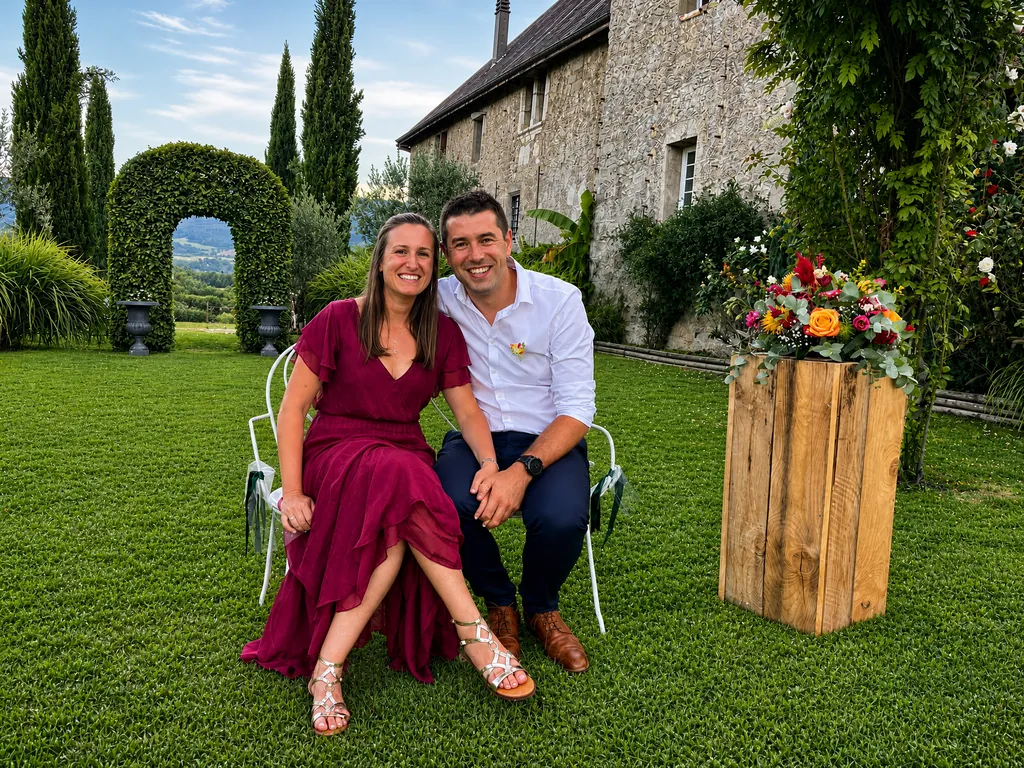
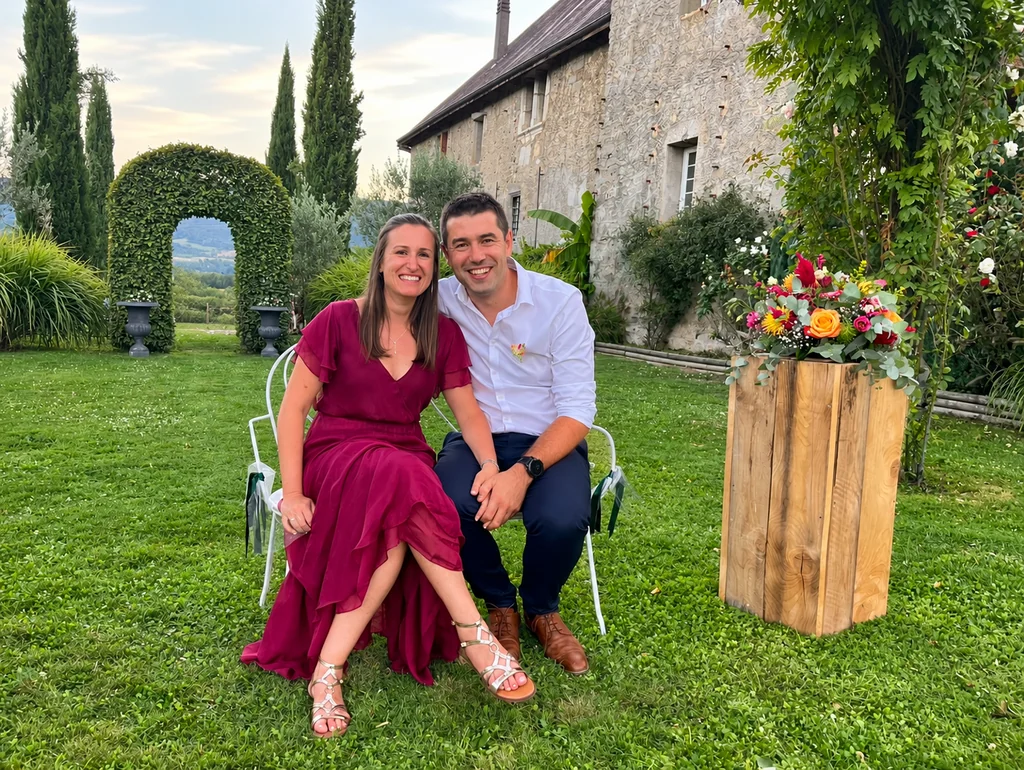
Photo du jardin : retour à la photo originale de Clémentine et Romain
L'agrandissement par IA retouchait légèrement le visage de Clémentine :
la photo plein écran reprend l'originale (1446 px, WebP qualité 85), sans
aucun agrandissement ; les versions 1920 et 2048 px sont retirées.
Même cadrage : zoom de l'arche et curseur cœur restent calés sur les visages.

Claude-Session: https://claude.ai/code/session_01HAWTPvL4dY7Bnksh8r4g53

diff --git a/.claude/skills/site-mariage-premium/assets/starter/index.html b/.claude/skills/site-mariage-premium/assets/starter/index.html
@@ -217,7 +217,7 @@
       <div class="reveal-photo__sticky">
         <div class="reveal-photo__frame" data-cursor-heart data-heart-focus="0.433 0.325" data-heart-reach="0.4">
           <img src="assets/img/photos/couple-jardin-1024.webp"
-               srcset="assets/img/photos/couple-jardin-640.webp 640w, assets/img/photos/couple-jardin-1024.webp 1024w, assets/img/photos/couple-jardin-1446.webp 1446w, assets/img/photos/couple-jardin-1920.webp 1920w, assets/img/photos/couple-jardin-2048.webp 2048w"
+               srcset="assets/img/photos/couple-jardin-640.webp 640w, assets/img/photos/couple-jardin-1024.webp 1024w, assets/img/photos/couple-jardin-1446.webp 1446w"
                sizes="(orientation: portrait) 166vh, 125vw" width="1024" height="768" loading="lazy" decoding="async"
                alt="Clémentine et Romain assis côte à côte dans un jardin fleuri, souriants">
         </div>

diff --git a/index.html b/index.html
@@ -223,7 +223,7 @@
       <div class="reveal-photo__sticky">
         <div class="reveal-photo__frame" data-cursor-heart data-heart-focus="0.433 0.325" data-heart-reach="0.4">
           <img src="assets/img/photos/couple-jardin-1024.webp"
-               srcset="assets/img/photos/couple-jardin-640.webp 640w, assets/img/photos/couple-jardin-1024.webp 1024w, assets/img/photos/couple-jardin-1446.webp 1446w, assets/img/photos/couple-jardin-1920.webp 1920w, assets/img/photos/couple-jardin-2048.webp 2048w"
+               srcset="assets/img/photos/couple-jardin-640.webp 640w, assets/img/photos/couple-jardin-1024.webp 1024w, assets/img/photos/couple-jardin-1446.webp 1446w"
                sizes="(orientation: portrait) 166vh, 125vw" width="1024" height="768" loading="lazy" decoding="async"
                alt="Clémentine et Romain assis côte à côte dans un jardin fleuri, souriants">
         </div>

diff --git a/tools/build-images.py b/tools/build-images.py
@@ -14,7 +14,9 @@ OUT = Path(__file__).resolve().parent.parent / "assets" / "img"
 # (fichier source, nom de sortie, largeurs, recadrage (gauche, haut, droite, bas) ou None)
 PHOTOS = [
     ("Photo Romain et Clémentine pour site internet 2.png", "photos/couple-arche", [640, 1024, 1448], None),
-    ("Photo Romain et Clémentine pour site internet 1.png", "photos/couple-jardin", [640, 1024, 1446], None),
+    # Photo plein écran : l'originale telle quelle (aucun agrandissement par IA, qui modifiait le visage),
+    # en qualité 85 ; au-delà de 1446 px, c'est le navigateur qui agrandit
+    ("Photo Romain et Clémentine pour site internet 1.png", "photos/couple-jardin", [640, 1024, 1446], None, 85),
     ("photo Saint Offenge entrée salle.webp", "photos/chateau-entree", [640, 1024, 1600], None),
 ]
 
@@ -40,12 +42,12 @@ def load(name: str) -> Image.Image:
     return ImageOps.exif_transpose(im).convert("RGB")
 
 
-for src, out, widths, crop in PHOTOS:
+for src, out, widths, crop, *quality in PHOTOS:
     im = load(src)
     if crop:
         im = im.crop(crop)
     for w in widths:
-        save_webp(im, OUT / f"{out}-{w}.webp", min(w, im.width))
+        save_webp(im, OUT / f"{out}-{w}.webp", min(w, im.width), *quality)
 
 for src, out, crop in TEMOINS:
     im = load(src).crop(crop)

diff --git a/.claude/skills/site-mariage-premium/references/pieges.md b/.claude/skills/site-mariage-premium/references/pieges.md
@@ -45,7 +45,8 @@ réintroduis pas en réécrivant du code.
 | Soleil qui « plonge d'un coup » | trajectoire en deux morceaux (palier puis chute) | une seule courbe : x linéaire, y = 12 + 92·t^1,9 ; relever 20 positions et tracer la courbe pour vérifier |
 | Soleil encore visible et ciel violet à la fin du programme | derniers paliers du ciel trop clairs, soleil jamais caché | paliers jusqu'au bleu nuit, soleil sous les montagnes puis opacité 0, lune + étoiles + étoile filante |
 | « Rendez-vous » écrit avant l'ouverture de l'arche, puis effacé et réécrit (défilement rapide, petit écran) | déclencheur basé sur la position brute de la page alors que l'arche suit avec le lissage `scrub` ; seuil unique = va-et-vient | tout piloter par la chronologie lissée ; opacité = `--rp-safe` (lié au défilement) × `--rp-show` (JS) : le bloc ne s'allume qu'au lancement de l'écriture (0,97) et s'éteint puis se remet à zéro dès 0,95 → jamais de texte « déjà écrit » ; pause de 0,35 photo ouverte, section de 270vh. Attention : `overwrite: true` tuerait aussi la tween de `tl` sur le même élément → `killTweensOf(el, "--rp-show")` |
-| Photo plein écran floue sur grand écran et sur mobile | source de 1446 px, zoom de 125 % pendant l'arche, `sizes="100vw"` alors que `cover` en portrait affiche ~166vh de large | tailles jusqu'à 2560 px (`scripts/agrandir_photo.py` si la source est petite), `sizes="(orientation: portrait) 166vh, 125vw"` ; ne jamais « vectoriser » une photo (rendu dessin, visages dénaturés) |
+| Photo plein écran floue sur grand écran et sur mobile | source de 1446 px, zoom de 125 % pendant l'arche, `sizes="100vw"` alors que `cover` en portrait affiche ~166vh de large | `sizes="(orientation: portrait) 166vh, 125vw"` et la plus grande version disponible ; demander l'original du téléphone ; ne jamais « vectoriser » une photo (rendu dessin, visages dénaturés) |
+| La mariée ne se reconnaît plus tout à fait sur la photo agrandie | un agrandissement par IA (outil en ligne ou `agrandir_photo.py`) retouche la peau, les yeux, les contours : même léger, un visage modifié gêne la personne | **fidélité avant netteté** : photo originale en taille native (le navigateur agrandit au-delà) ; tout agrandissement par IA seulement avec l'accord des mariés, après leur avoir montré un recadrage des visages avant / après |
 | Texte « Rendez-vous » trop discret | petit, sans contraste, simple fondu | plus grand, voile sombre, animation en plusieurs temps ; jamais sur les visages |
 | Cœur au survol « qui ne fait rien » | libellé statique | cœur SVG qui bat, rythme selon la distance au couple, ondes, petits cœurs |
 | Cartes filtrées décalées ou page vide (Environs) | GSAP Flip `absolute: true` interrompu (`killTweensOf`) → cartes restées en absolu | fondu en cascade sans positionnement absolu ; terminer l'animation en cours avant la suivante |

diff --git a/.claude/skills/site-mariage-premium/SKILL.md b/.claude/skills/site-mariage-premium/SKILL.md
@@ -56,8 +56,9 @@ reproduis-le à la même taille d'écran avant de corriger.
 
 ### 1. Préparer les ressources
 - Photos converties en WebP en plusieurs tailles (`scripts/images_webp.py`), recadrées sur les visages.
-- Photo affichée en plein écran trop petite : demande l'original ; sinon `scripts/agrandir_photo.py`
-  (IA à 35 % seulement, visages vérifiés avant / après).
+- Photo affichée en plein écran trop petite : demande l'original. N'agrandis par IA (`scripts/agrandir_photo.py`)
+  qu'avec l'accord des mariés, visages avant / après à l'appui : un visage légèrement retouché les gêne, et le
+  premier couple est revenu à sa photo originale (si accord : IA à 35 % seulement).
 - Photos des lieux (page Environs) : Wikimedia Commons, licences libres, avec `scripts/photos_commons.py`.
   Regarde chaque image avant de la retenir : les homonymes de lieux sont fréquents.
   Le couple ne doit **jamais** être coupé, que ce soit dans une arche, un plein écran ou sur un écran large.
